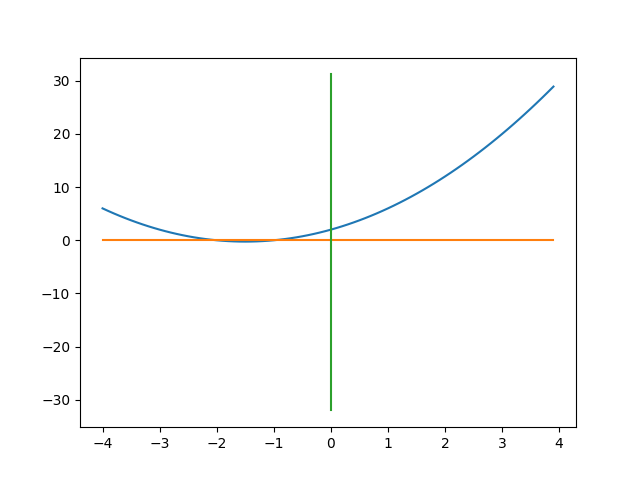
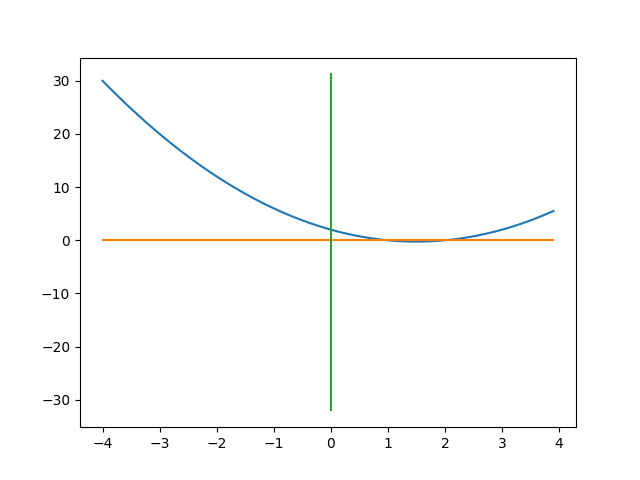
alpha version of project

diff --git a/calcapp/templates/calcapp/post_detail.html b/calcapp/templates/calcapp/post_detail.html
@@ -1,15 +1,17 @@
 {% extends 'calcapp/base.html' %}
+{% load static %}
 {% block content %}
     <div class="post">
-        {% if post.param1 %}
-            <div class="date">
-                {{ post.param1 }}
-                {{ post.param2 }}
-                {{ post.param3 }}
-            </div>
-        {% endif %}
-            <a class="btn btn-default" href="{% url 'post_edit' pk=post.pk %}"><span class="glyphicon glyphicon-pencil"></span></a>
-        <h3>{{ post.string}}</h3>
-        <p>{{ post.nums }}</p>
+        <div class="date">
+            <p> {{ post }}</p>
+        </div>
+        <div class="date">
+            <p>{{ result1 }}</p>
+        </div>
+          <div class="date">
+            <p>{{ result2 }}</p>
+        </div>
+        <img src="{% static 'img/plot.png' %}">
+        <a class="btn btn-default" href="{% url 'post_edit' pk=post.pk %}"><span class="glyphicon glyphicon-pencil"></span></a>
     </div>
 {% endblock %}

diff --git a/calcapp/templates/calcapp/base.html b/calcapp/templates/calcapp/base.html
@@ -1,11 +1,13 @@
 {% load staticfiles %}
 <html>
+
     <head>
         <title>Калькулятор нелінійних рівнянь</title>
         <link rel="stylesheet" href="https://maxcdn.bootstrapcdn.com/bootstrap/3.2.0/css/bootstrap.min.css">
         <link rel="stylesheet" href="https://maxcdn.bootstrapcdn.com/bootstrap/3.2.0/css/bootstrap-theme.min.css">
         <link href='https://fonts.googleapis.com/css?family=Lobster&subset=latin,latin-ext' rel='stylesheet' type='text/css'>
     </head>
+
     <body>
         <div class="page-header">
             <a href="{% url 'post_new' %}" class="top-menu"><span class="glyphicon glyphicon-plus"></span></a>

diff --git a/calcapp/views.py b/calcapp/views.py
@@ -3,16 +3,19 @@ from .forms import PostForm
 from .models import Post
 from . import top
 
+
 def post_new(request):
+    posts = Post.objects.all()
     if request.method == "POST":
         form = PostForm(request.POST)
         if form.is_valid():
+            posts.delete()
             post = form.save(commit=False)
             post.save()
-            return redirect('post_detail', pk=post.pk)
+            return redirect('post_list')
     else:
         form = PostForm()
-        return render(request, 'calcapp/post_edit.html', {'form': form})
+    return render(request, 'calcapp/post_edit.html', {'form': form})
 
 
 def post_edit(request, pk):
@@ -21,9 +24,8 @@ def post_edit(request, pk):
         form = PostForm(request.POST, instance=post)
         if form.is_valid():
             post = form.save(commit=False)
-            post.author = request.user
             post.save()
-            return redirect('post_detail', pk=post.pk)
+            return redirect('post_list')
     else:
         form = PostForm(instance=post)
         return render(request, 'calcapp/post_edit.html', {'form': form})
@@ -31,7 +33,9 @@ def post_edit(request, pk):
 
 def post_detail(request, pk):
     post = get_object_or_404(Post, pk=pk)
-    return render(request, 'calcapp/post_detail.html', {'post': post})
+    result = top.main(top.f,post.param1, post.param2, post.param3,post.nums,post.epsilon)
+    # post.param1,post.param2 = top.main(top.f,post.param1, post.param2, post.param3,post.nums,post.epsilon)
+    return render(request, 'calcapp/post_detail.html', {'post': post, 'result1': result[0], 'result2': result[1]})
 
 
 def post_list(request):

diff --git a/calcapp/top.py b/calcapp/top.py
@@ -1,5 +1,5 @@
 import matplotlib
-matplotlib.use("agg")
+matplotlib.use("template")
 import matplotlib.pyplot as plt
 from matplotlib.figure import Figure
 import numpy as np
@@ -283,11 +283,10 @@ def main(f, a, b, c, num,eps):
         testroot2 = steffencenMethod(right[0], right[1], eps, a, b, c)
     x = np.arange(-4, 4, 0.1)
     y = np.arange(-32, 32, 0.8)
-    fig = Figure()
     plt.plot(x, f(a, b, c, x))
     plt.plot(x, XAxis(0, 0, x))
     plt.plot(YAxis(0, 0, x), y)
-    fig.savefig("static/img/plot.png")
+    plt.savefig("static/img/plot.png")
     print(testroot1)
     print(testroot2)
     return [testroot1, testroot2]
@@ -312,5 +311,6 @@ if __name__ == '__main__':
     num = int(input("Введіть номер методу: "))
     params = init()
     details = printfunc(params[0], params[1], params[2])
+    eps = float(input("Точність: "))
     print("Рівняння: y = {}".format(details))
-    main(f, params[0], params[1], params[2], num)
+    main(f, params[0], params[1], params[2], num, eps)

diff --git a/calcapp/urls.py b/calcapp/urls.py
@@ -4,9 +4,9 @@ from . import views
 
 urlpatterns = [
 
-    url(r'^', views.post_list, name='post_list'),
-    url(r'^post/(?P<pk>[0-9]+)/', views.post_detail, name='post_detail'),
-    url(r'^post/new/', views.post_new, name='post_new'),
-    url(r'^post/(?P<pk>[0-9]+)/edit/', views.post_edit, name='post_edit'),
+    url(r'^$', views.post_list, name='post_list'),
+    url(r'^post/(?P<pk>[0-9]+)/$', views.post_detail, name='post_detail'),
+    url('post/new/$', views.post_new, name='post_new'),
+    url(r'^post/(?P<pk>[0-9]+)/edit/$', views.post_edit, name='post_edit'),
 
 ]

diff --git a/calcapp/models.py b/calcapp/models.py
@@ -14,9 +14,7 @@ class Post(models.Model):
         self.save()
 
     def __str__(self):
-        self.left, self.right = top.main(top.f, self.param1, self.param2, self.param3, self
-                                         .nums, self.epsilon)
-        return "y = {}x^2 + {}x + {} \n {} \n {}".format(self.param1, self.param2, self.param3, self.left, self.right)
+        return "y = {}x^2 + {}x + {}".format(self.param1, self.param2, self.param3)
 
 
 class Images(models.Model):

diff --git a/calcapp/forms.py b/calcapp/forms.py
@@ -6,4 +6,4 @@ from .models import Post
 class PostForm(forms.ModelForm):
     class Meta:
         model = Post
-        fields = ('param1', 'param2', 'param3', 'epsilon', 'nums')
+        fields = ('param1', 'param2', 'param3', 'epsilon', 'nums',)
